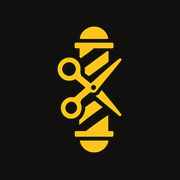
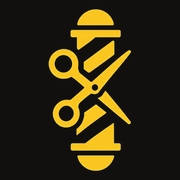
Landing: ícone, descrição e etiquetas de partilha (D-80)
Claude-Session: https://claude.ai/code/session_01NzqEVh27JN9VYLXgeANEsa

Changed region(s): [[0.25, 0.0278, 0.75, 0.9722]]

diff --git a/landing/publicar/index.html b/landing/publicar/index.html
@@ -5,7 +5,7 @@
 <meta name="viewport" content="width=device-width, initial-scale=1, viewport-fit=cover">
 <title>InstaBarber · Agenda, clientes e fidelização para barbearias</title>
 
-<meta name="description" content="InstaBarber: agenda, clientes, equipa, financeiro e página de marcação para barbearias. Atrai, fideliza, cresce.">
+<meta name="description" content="Agenda, clientes, equipa e financeiro num só sistema, com marcação online e WhatsApp para recuperar clientes. Para barbearias em Portugal. Experimenta a demo.">
 <meta property="og:type" content="website">
 <meta property="og:locale" content="pt_PT">
 <meta property="og:site_name" content="InstaBarber">
@@ -15,8 +15,14 @@
 <meta property="og:image" content="https://instabarber.pt/marca/og.png">
 <meta property="og:image:width" content="1200">
 <meta property="og:image:height" content="630">
+<meta property="og:image:alt" content="InstaBarber. Atrai, fideliza, cresce.">
 <meta name="twitter:card" content="summary_large_image">
+<meta name="twitter:title" content="InstaBarber. Atrai, fideliza, cresce.">
+<meta name="twitter:description" content="Tudo o que uma barbearia precisa, num só sistema.">
+<meta name="twitter:image" content="https://instabarber.pt/marca/og.png">
+<link rel="icon" href="/favicon.ico" sizes="48x48">
 <link rel="icon" type="image/png" sizes="32x32" href="/marca/favicon-32.png">
+<link rel="icon" type="image/png" sizes="192x192" href="/marca/favicon-192.png">
 <link rel="apple-touch-icon" href="/marca/apple-touch-icon.png">
 <link rel="canonical" href="https://instabarber.pt/">
 <meta name="theme-color" content="#12100E">

diff --git a/DECISOES.md b/DECISOES.md
@@ -381,3 +381,6 @@ O topo tinha cinco chamadas (três caixas e dois botões) e dois botões com o m
 
 ## D-79 · Botão «Compara os planos» no topo (22/10/2026)
 O topo ganha «Compara os planos» (#planos) ao lado de «Experimentar a demo». Ordem: demo, planos, falar connosco. Em ecrãs estreitos os botões empilham.
+
+## D-80 · Ícone e descrição da página (22/10/2026)
+Ícone do separador refeito (barbeiro dourado sobre fundo da marca, a ocupar 90 % da altura): favicon.ico (16, 32 e 48 px), PNG 32, 192 e 512, apple-touch-icon. Descrição para pesquisa: «Agenda, clientes, equipa e financeiro num só sistema, com marcação online e WhatsApp para recuperar clientes. Para barbearias em Portugal. Experimenta a demo.» Acrescentados og:image:alt e as etiquetas twitter:title, description e image. As ligações de partilha apontam para instabarber.pt: a pré-visualização só aparece depois de o domínio estar ligado.
